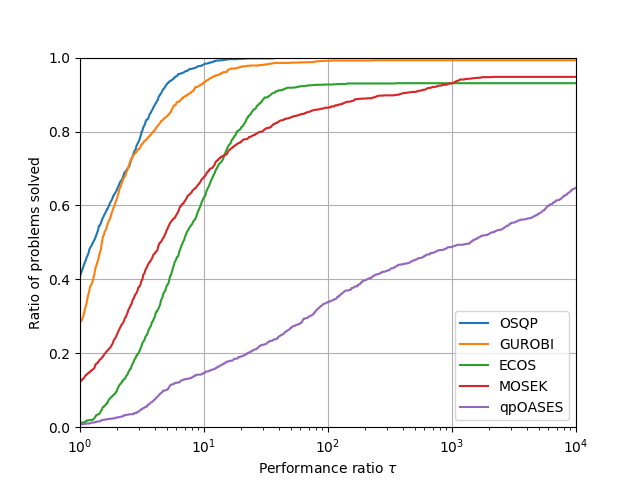
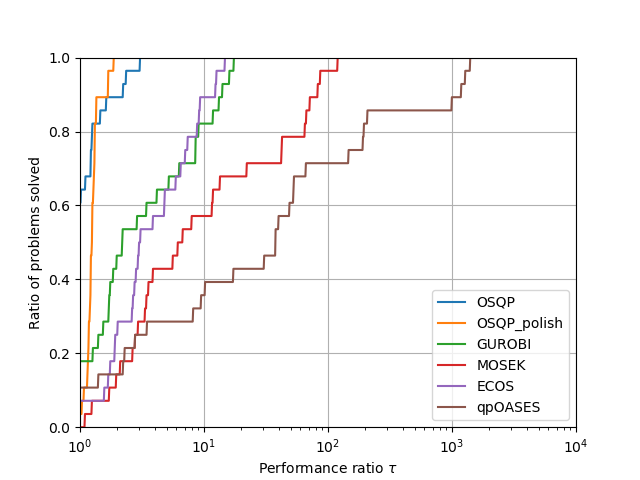
Fixed Huber and Control examples. Converted benchmark scripts to new format

diff --git a/run_benchmark_problems.py b/run_benchmark_problems.py
@@ -15,37 +15,51 @@ from utils.general import gen_int_log_space, plot_performance_profiles
 from utils.benchmark import get_cumulative_data, \
     compute_performance_profiles, \
     compute_failure_rates, \
-    compute_polish_statistics
+    compute_polish_statistics, \
+    compute_shifted_geometric_means
 import os
+import argparse
 
-# Define solvers to benchmark
-solvers = [
-            s.OSQP,
-            s.OSQP_polish,
-            s.GUROBI,
-            s.MOSEK,
-            s.ECOS,
-            s.qpOASES
-           ]
 
-time_limit = 1000.  # Seconds
-settings = {
-             s.OSQP: {'polish': False,
-                      'time_limit': time_limit},
-             s.OSQP_polish: {'polish': True,
-                             'time_limit': time_limit},
-             s.GUROBI: {'time_limit': time_limit},
-             s.MOSEK: {'time_limit': time_limit},
-             s.ECOS: {'time_limit': time_limit},
-             s.qpOASES: {'time_limit': time_limit}
-            }
+parser = argparse.ArgumentParser(description='Benchmark Problems Runner')
+parser.add_argument('--high_accuracy', help='Test with high accuracy', default=False,
+                    action='store_true')
+parser.add_argument('--verbose', help='Verbose solvers', default=False,
+                    action='store_true')
+parser.add_argument('--parallel', help='Parallel solution', default=False,
+                    action='store_true')
+args = parser.parse_args()
+high_accuracy = args.high_accuracy
+verbose = args.verbose
+parallel = args.parallel
+
+print('high_accuracy', high_accuracy)
+print('verbose', verbose)
+print('parallel', parallel)
+
+
+
+
+# Add high accuracy solvers when accurazy
+if high_accuracy:
+    solvers = [s.OSQP_high, s.OSQP_polish_high, s.GUROBI, s.MOSEK, s.qpOASES]
+    OUTPUT_FOLDER = 'benchmark_problems_high_accuracy'
+    for key in s.settings:
+        s.settings[key]['high_accuracy'] = True
+else:
+    solvers = [s.OSQP, s.OSQP_polish, s.GUROBI, s.MOSEK, s.ECOS, s.qpOASES]
+    OUTPUT_FOLDER = 'benchmark_problems'
+
+
+if verbose:
+    for key in s.settings:
+        s.settings[key]['verbose'] = True
+
 
 # Number of instances per different dimension
 n_instances = 10
+n_dim = 20
 
-# Shut up solvers
-for key in settings:
-    settings[key]['verbose'] = False
 
 # Run benchmark problems
 problems = [
@@ -58,56 +72,56 @@ problems = [
             'Control'
             ]
 
-problem_dimensions = {'Random QP': gen_int_log_space(10, 2000, 20),
-                      'Eq QP': gen_int_log_space(10, 2000, 20),
-                      'Portfolio': gen_int_log_space(5, 150, 20),
-                      'Lasso': gen_int_log_space(10, 200, 20),
-                      'SVM': gen_int_log_space(10, 200, 20),
-                      'Huber': gen_int_log_space(10, 200, 20),
-                      'Control': gen_int_log_space(10, 100, 20)}
+problem_dimensions = {'Random QP': gen_int_log_space(10, 2000, n_dim),
+                      'Eq QP': gen_int_log_space(10, 2000, n_dim),
+                      'Portfolio': gen_int_log_space(5, 150, n_dim),
+                      'Lasso': gen_int_log_space(10, 200, n_dim),
+                      'SVM': gen_int_log_space(10, 200, n_dim),
+                      'Huber': gen_int_log_space(10, 200, n_dim),
+                      'Control': gen_int_log_space(10, 100, n_dim)}
 
 # Some problems become too big to be executed in parallel and we solve them
 # serially
-problem_parallel = {'Random QP': True,
-                    'Eq QP': True,
-                    'Portfolio': True,
-                    'Lasso': True,
-                    'SVM': True,
-                    'Huber': True,
-                    'Control': True}
+problem_parallel = {'Random QP': parallel,
+                    'Eq QP': parallel,
+                    'Portfolio': parallel,
+                    'Lasso': parallel,
+                    'SVM': parallel,
+                    'Huber': parallel,
+                    'Control': parallel}
 
 # Small dimensions (to comment when running on the server)
-# for key in problem_dimensions:
-#     problem_dimensions[key] = [4, 5]
+#  for key in problem_dimensions:
+   #  problem_dimensions[key] = [4, 5]
 
 # Run all examples
 for problem in problems:
     example = Example(problem,
                       problem_dimensions[problem],
                       solvers,
-                      settings,
+                      s.settings,
+                      OUTPUT_FOLDER,
                       n_instances)
     example.solve(parallel=problem_parallel[problem])
 
 
 # Collect cumulative data for each solver
-get_cumulative_data(solvers, problems)
+get_cumulative_data(solvers, problems, OUTPUT_FOLDER)
 
-statistics_file = os.path.join(".", "results", "benchmark_problems",
-                               "statistics.txt")
+statistics_file = os.path.join(".", "results", OUTPUT_FOLDER, "statistics.txt")
 print("Saving statistics to %s" % statistics_file)
 
 # Compute failure rates
-compute_failure_rates(solvers, 'benchmark_problems')
+compute_failure_rates(solvers, OUTPUT_FOLDER)
 
 # Compute performance profiles
-compute_performance_profiles(solvers, 'benchmark_problems')
+compute_performance_profiles(solvers, OUTPUT_FOLDER)
+
+# Compute performance profiles
+compute_shifted_geometric_means(solvers, OUTPUT_FOLDER)
 
 # Compute polish statistics
-if 'OSQP' in solvers and 'OSQP_polish' in solvers:
-    compute_polish_statistics('benchmark_problems')
-
+compute_polish_statistics(OUTPUT_FOLDER, high_accuracy=high_accuracy)
 
 # Plot performance profiles
-plot_performance_profiles('benchmark_problems',
-                          ["OSQP", "GUROBI", "ECOS", "MOSEK", "qpOASES"])
+plot_performance_profiles(OUTPUT_FOLDER, solvers)

diff --git a/problem_classes/huber.py b/problem_classes/huber.py
@@ -44,6 +44,7 @@ class HuberExample(object):
         #                   s >= 0
         # The problem reformulation follows from Eq. (24) of the following paper:
         # https://doi.org/10.1109/34.877518
+        # x_solver = (x, z, r, s)
         Im = spa.eye(self.m)
         P = spa.block_diag((spa.csc_matrix((self.n, self.n)), Im,
                             spa.csc_matrix((2*self.m, 2*self.m))), format='csc')
@@ -86,43 +87,42 @@ class HuberExample(object):
         '''
         Generate QP problem
         '''
-        # Model with CVXPY
-        #       minimize	1/2 u.T * u + np.ones(m).T * v
-        #       subject to  -u - v <= Ax - b <= u + v
-        #                   0 <= u <= 1
-        #                   v >= 0
+        # Construct the problem
+        #       minimize    1/2 z.T * z + np.ones(m).T * (r + s)
+        #       subject to  Ax - b - z = r - s
+        #                   r >= 0
+        #                   s >= 0
+        # The problem reformulation follows from Eq. (24) of the following paper:
+        # https://doi.org/10.1109/34.877518
         x = cvxpy.Variable(self.n)
-        u = cvxpy.Variable(self.m)
-        v = cvxpy.Variable(self.m)
+        z = cvxpy.Variable(self.m)
+        r = cvxpy.Variable(self.m)
+        s = cvxpy.Variable(self.m)
 
-        objective = cvxpy.Minimize(.5 * cvxpy.quad_form(u, spa.eye(self.m))
-                                   + np.ones(self.m) * v)
-        constraints = [-u - v <= self.Ad * x - self.bd,
-                       self.Ad * x - self.bd <= u + v,
-                       0. <= u, u <= 1.,
-                       v >= 0.]
+        objective = cvxpy.Minimize(.5 * cvxpy.sum_squares(z) + cvxpy.sum(r + s))
+        constraints = [self.Ad@x - self.bd - z == r - s,
+                       r >= 0, s >= 0]
         problem = cvxpy.Problem(objective, constraints)
 
-        return problem, (x, u, v)
+        return problem, (x, z, r, s)
 
     def revert_cvxpy_solution(self):
         '''
         Get QP primal and duar variables from cvxpy solution
         '''
 
-        (x_cvx, u_cvx, v_cvx) = self.cvxpy_variables
+        (x_cvx, z_cvx, r_cvx, s_cvx) = self.cvxpy_variables
         constraints = self.cvxpy_problem.constraints
 
         # primal solution
         x = np.concatenate((x_cvx.value,
-                            u_cvx.value,
-                            v_cvx.value))
+                            z_cvx.value,
+                            r_cvx.value,
+                            s_cvx.value))
 
         # dual solution
-        y = np.concatenate((-constraints[0].dual_value,
-                            constraints[1].dual_value,
-                            constraints[3].dual_value -
-                            constraints[2].dual_value,
-                            -constraints[4].dual_value))
+        y = np.concatenate((constraints[0].dual_value,
+                            -constraints[1].dual_value,
+                            -constraints[2].dual_value))
 
         return x, y

diff --git a/benchmark_problems/example.py b/benchmark_problems/example.py
@@ -32,12 +32,14 @@ class Example(object):
                  dims,
                  solvers,
                  settings,
+                 output_folder,
                  n_instances=10):
         self.name = name
         self.dims = dims
         self.n_instances = n_instances
         self.solvers = solvers
         self.settings = settings
+        self.output_folder = output_folder
 
     def solve(self, parallel=True):
         '''
@@ -45,7 +47,7 @@ class Example(object):
 
         The results are stored as
 
-            ./results/benchmark_problems/{solver}/{class}/n{dimension}.csv
+            ./results/{self.output_folder}/{solver}/{class}/n{dimension}.csv
 
         using a pandas table with fields
             - 'class': example class
@@ -72,7 +74,7 @@ class Example(object):
             results_solver = []
 
             # Solution directory
-            path = os.path.join('.', 'results', 'benchmark_problems',
+            path = os.path.join('.', 'results', self.output_folder,
                                 solver,
                                 self.name
                                 )
@@ -171,6 +173,9 @@ class Example(object):
         # Add status polish if OSQP
         if solver[:4] == 'OSQP':
             solution_dict['status_polish'] = results.status_polish
+            solution_dict['setup_time'] = results.setup_time
+            solution_dict['solve_time'] = results.solve_time
+            solution_dict['update_time'] = results.update_time
 
         # Return solution
         return pd.DataFrame(solution_dict)

diff --git a/utils/benchmark.py b/utils/benchmark.py
@@ -7,11 +7,11 @@ from solvers.solvers import time_limit
 MAX_TIMING = time_limit
 
 
-def get_cumulative_data(solvers, problems):
+def get_cumulative_data(solvers, problems, output_folder):
     for solver in solvers:
 
         # Path where solver results are stored
-        path = os.path.join('.', 'results', 'benchmark_problems', solver)
+        path = os.path.join('.', 'results', output_folder, solver)
 
         # Initialize cumulative results
         results = []
@@ -96,7 +96,7 @@ def compute_performance_profiles(solvers, problems_type):
 
 def geom_mean(t, shift=10.):
     return np.power(np.prod(t + shift), 1/len(t)) - shift
-    
+
 
 def compute_shifted_geometric_means(solvers, problems_type):
     t = {}
@@ -204,7 +204,7 @@ def compute_failure_rates(solvers, problems_type):
 
 def compute_polish_statistics(problems_type, high_accuracy=False):
     name_high = "_high" if high_accuracy else ""
-    
+
     # Check if results file already exists
     results_file = os.path.join(".", "results", problems_type,
                                 "statistics.txt")

diff --git a/problem_classes/control.py b/problem_classes/control.py
@@ -168,8 +168,8 @@ class ControlExample(object):
         x0.value = self.x0
 
         # variables
-        x = cvxpy.Variable(nx, T + 1)
-        u = cvxpy.Variable(nu, T)
+        x = cvxpy.Variable((nx, T + 1))
+        u = cvxpy.Variable((nu, T))
 
         # Objective
         cost = cvxpy.quad_form(x[:, T], self.QN)  # Terminal cost
@@ -209,8 +209,8 @@ class ControlExample(object):
         T = self.T
 
         # primal solution
-        x = np.concatenate((x_cvx.value.T,
-                            u_cvx.value.T))
+        x = np.concatenate((cvxpy.vec(x_cvx).value,
+                            cvxpy.vec(u_cvx).value))
 
         # dual solution
         constraint_values = [constr.dual_value for constr in constraints]

diff --git a/run_suitesparse_lasso_problems.py b/run_suitesparse_lasso_problems.py
@@ -47,8 +47,6 @@ else:
     solvers = [s.OSQP, s.OSQP_polish, s.GUROBI, s.MOSEK]
     OUTPUT_FOLDER = 'suitesparse_lasso_problems'
 
-
-# Shut up solvers
 if verbose:
     for key in s.settings:
         s.settings[key]['verbose'] = True
@@ -65,8 +63,7 @@ suitesparse_lasso_runner.solve(parallel=parallel, cores=12)
 
 
 
-statistics_file = os.path.join(".", "results", OUTPUT_FOLDER,
-                               "statistics.txt")
+statistics_file = os.path.join(".", "results", OUTPUT_FOLDER, "statistics.txt")
 print("Saving statistics to %s" % statistics_file)
 
 # Compute failure rates

diff --git a/suitesparse_lasso_problems/suitesparse_lasso_problem.py b/suitesparse_lasso_problems/suitesparse_lasso_problem.py
@@ -141,7 +141,6 @@ class SuitesparseLassoRunner(object):
                          'run_time': [results.run_time],
                          'iter': [results.niter],
                          'obj_val': [results.obj_val],
-                         #  'obj_dist': [obj_dist],
                          'n': [instance.qp_problem["n"]],
                          'm': [instance.qp_problem["m"]],
                          'N': [N]}
